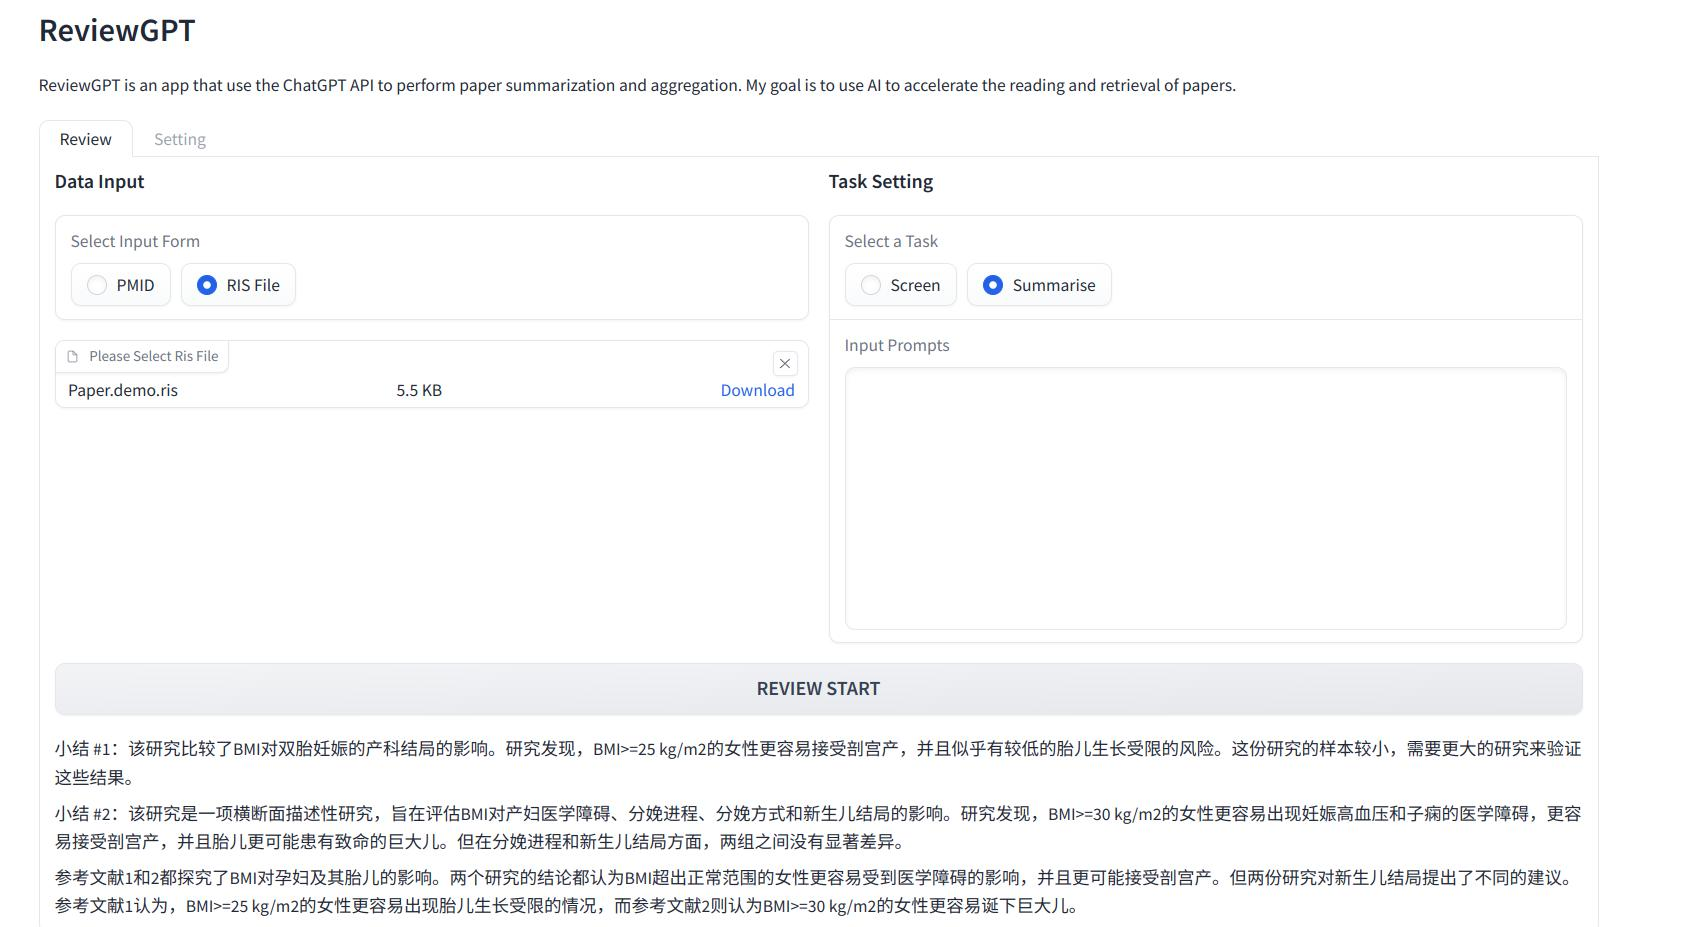
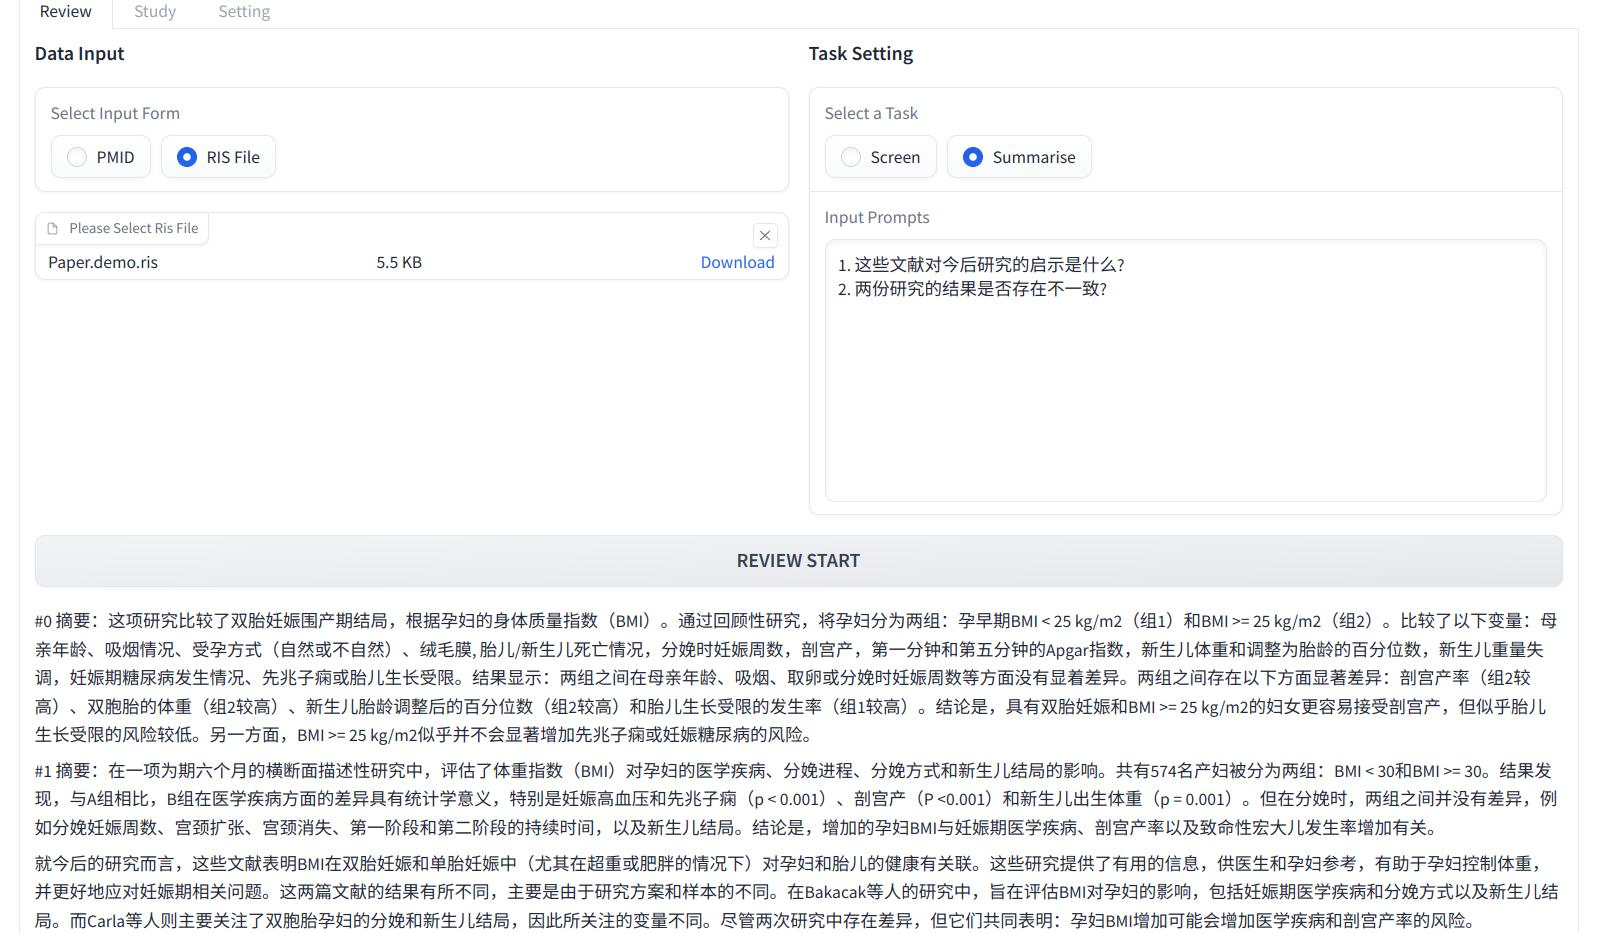
改进小结功能, 可以追加额外的问题

diff --git a/utils/review.py b/utils/review.py
@@ -79,17 +79,20 @@ class Reviewer:
         return self.query()
 
 
-    def summarise(self, papers):
+    def summarise(self, papers, prompts):
         '''
         meta分析时用的方法, 读取标准内容和文献摘要后,
         判断文章是否符合准入标准
         '''
         units = []
-        for idx, abstract in papers:
-            units.append(Prompts['Summarize_Unit'].format(idx=idx, abstract=abstract))
-        units.append(Prompts['Summarize'].format(idx=len(papers)))
-        
-        message = '\n'.join(units)
+        for idx, (paper_id, abstract) in enumerate(papers):
+            units.append(Prompts['Summarize_Unit'].format(
+                idx=idx, 
+                paper_id=paper_id,
+                abstract=abstract
+            ))
+        paper_text = '\n'.join(units)
+        message = Prompts['Summarize'].format(idx=len(papers), papers=paper_text, questions=prompts)
         self.messages = [
             {"role": "user", "content": message},
         ]

diff --git a/utils/task.py b/utils/task.py
@@ -75,7 +75,7 @@ def review(task, paper_info, prompts, openai_key, review_model):
                 papers.append((rec['DOI'], rec['Abstract']))
             else:
                 raise Exception('No PMID nor DOI in record.')
-        response = reviewer.summarise(papers)
+        response = reviewer.summarise(papers, prompts)
         return response['choices'][0]['message']['content']
 
 
